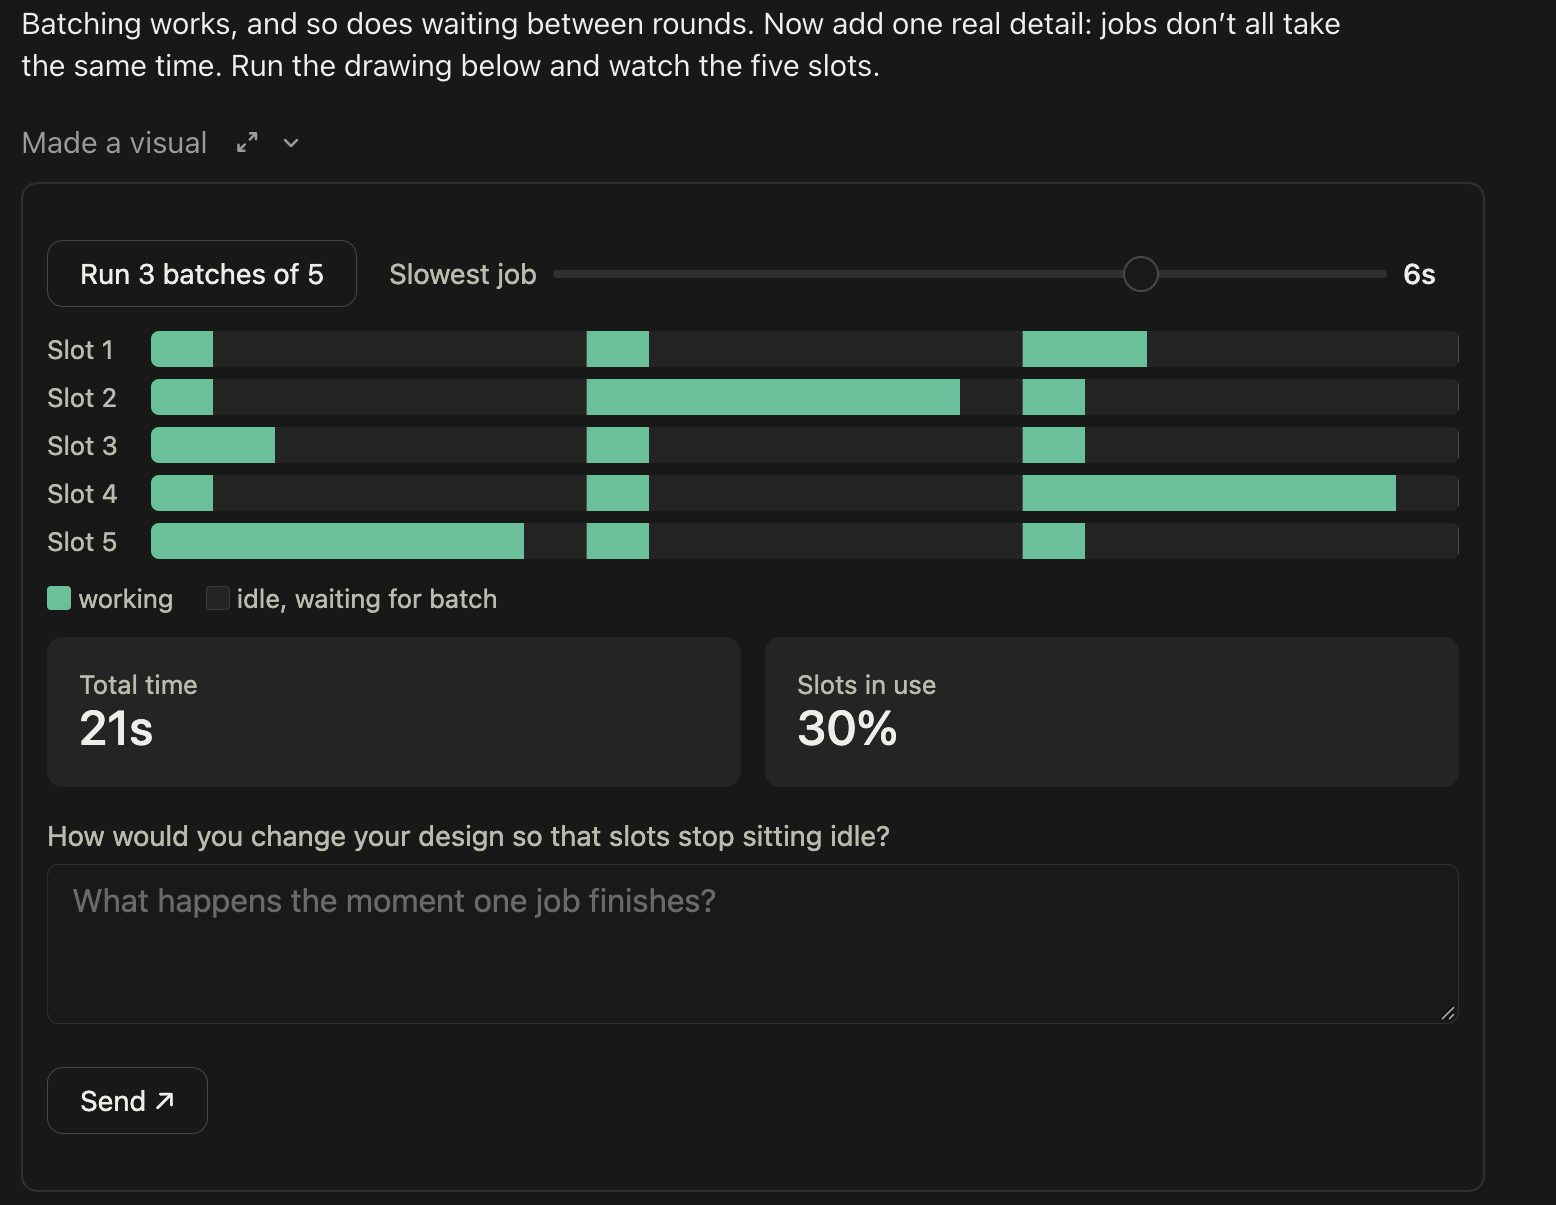
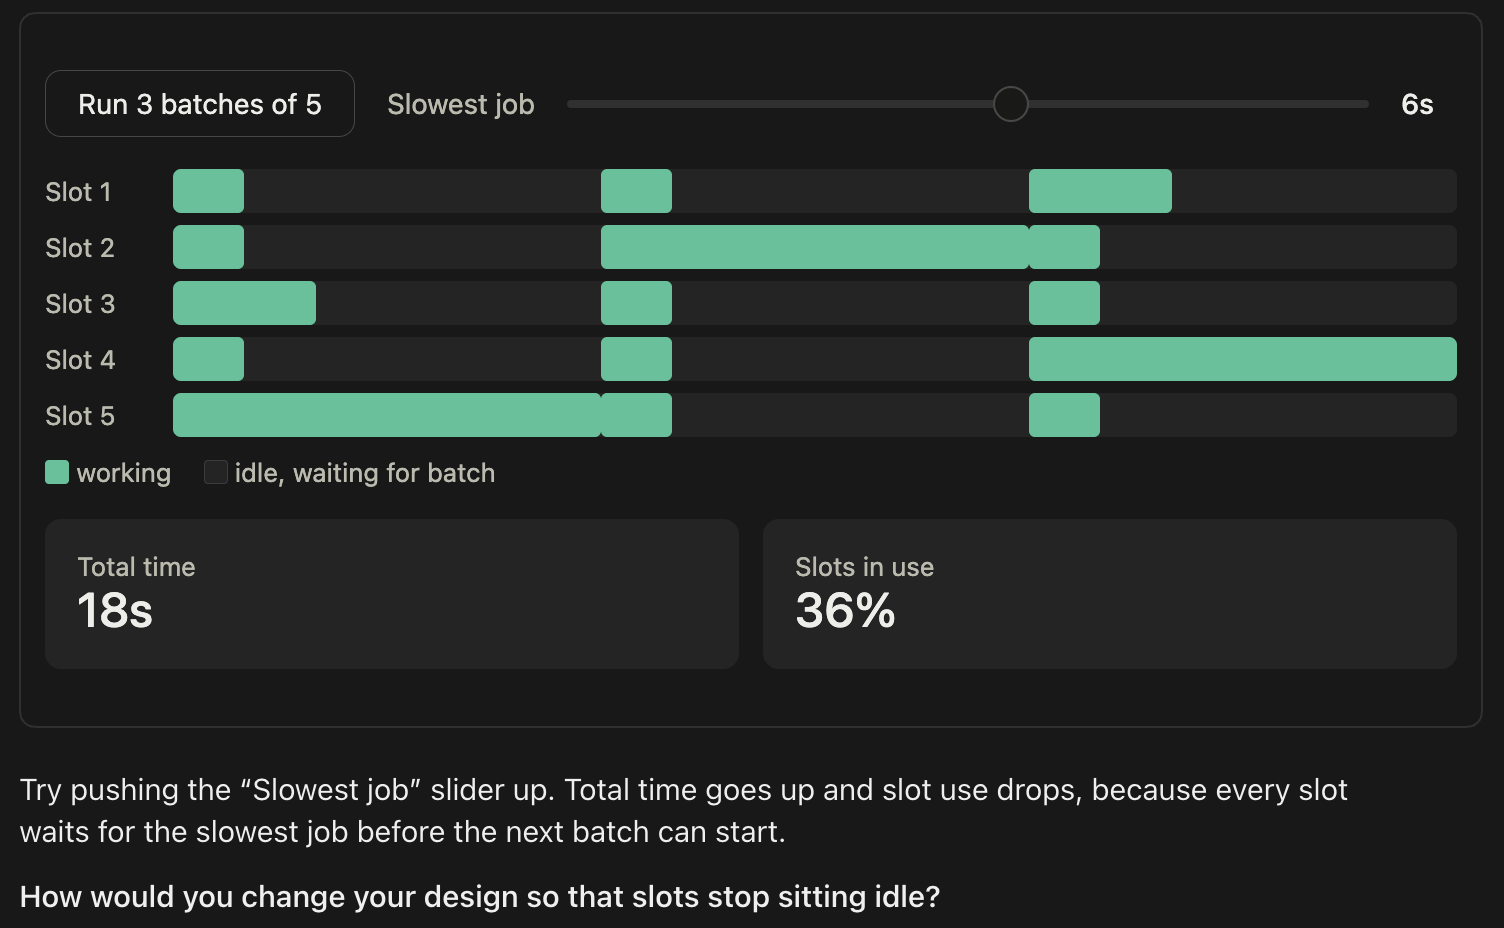
Update the README slider screenshot for 1.0.6
Widgets no longer hold answer boxes; the question is asked once in chat.

diff --git a/README.md b/README.md
@@ -44,7 +44,7 @@ The questions, constraints and verdicts are the same everywhere. What changes is
 Every step is something to play with: drag a slider until your design breaks, pick from approach cards when you're stuck, and get the verdict as a side-by-side card. You type your designs in the chat as usual, and choices are one click. This is the best way to use Design Duel.
 
 <p align="center">
-  <img src="assets/desktop-constraint.png" alt="A slider widget: batches of five jobs wait on their slowest job, leaving slots idle 70% of the time, with an answer box asking how to fix it" width="720">
+  <img src="assets/desktop-constraint.png" alt="A slider widget: batches of five jobs wait on their slowest job, so slots sit idle most of the time, with the question asked once in the chat below" width="720">
 </p>
 <p align="center"><em>A constraint breaks your design: slow jobs leave the other slots idle.</em></p>
 
